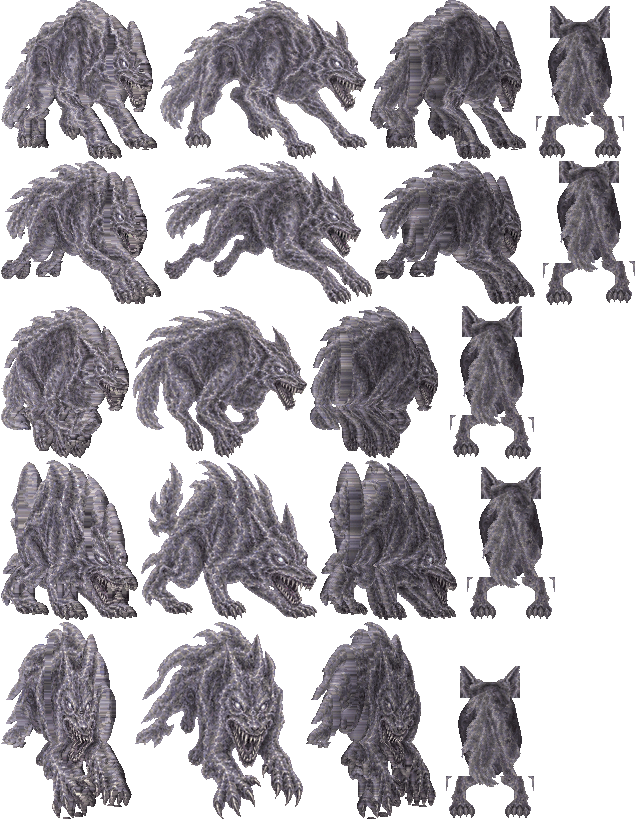
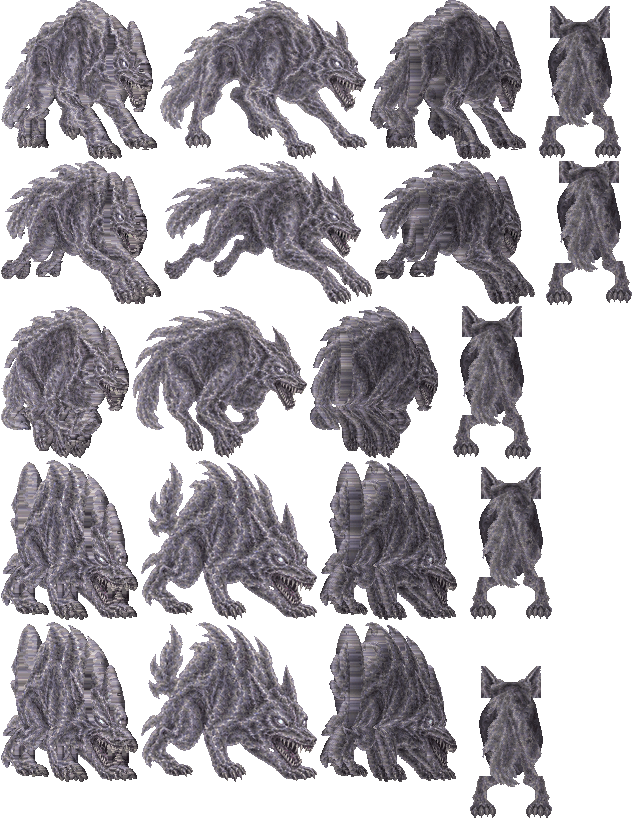
Phase 20 BEASTA: hound strike turned from its wind-up profile, hind-leg mask; precache
Claude-Session: https://claude.ai/code/session_01TYjZA4Eb84PA9Yndxy475V

Changed region(s): [[0.0, 0.7613, 0.8723, 1.0]]

diff --git a/js/bestiary20a.js b/js/bestiary20a.js
@@ -34,7 +34,7 @@ const BESTIARY20A = (() => {
   // Cell table written by the bake script: species -> { f: file, v: version,
   // c: { 'view|pose': [x, y, w, h, hs, cx, dy] or 'sprite name' (an existing painting) } }
   // @@ATLAS-BEGIN (generated by tools/art/bestiary/bake20a.js; do not edit by hand)
-  const ATLAS = {"aegis":{"f":"aegis.png","v":"438ad28f","c":{"1|":[0,0,65,160,1,0.49231,0],"2|":[66,0,43,160,1,0.48837,0],"3|":[110,0,67,160,1,0.49254,0],"4|":[178,0,87,160,1,0.49425,0],"1|_w1":[0,161,64,161,1.0063,0.5,0],"2|_w1":[65,161,43,161,1.0063,0.48837,0],"3|_w1":[109,161,64,161,1.0063,0.5,0],"4|_w1":[174,161,85,161,1.0063,0.49412,0],"1|_w2":[0,323,65,162,1.0125,0.50769,0],"2|_w2":[66,323,43,162,1.0125,0.48837,0],"3|_w2":[110,323,65,162,1.0125,0.49231,0],"4|_w2":[176,323,84,162,1.0125,0.4881,0],"1|_a1":[0,486,72,153,0.9563,0.5,0],"2|_a1":[73,486,44,153,0.9563,0.5,0],"3|_a1":[118,486,72,153,0.9563,0.5,0],"4|_a1":[191,486,93,153,0.9563,0.49462,0],"1|_a2":[0,640,57,153,0.9563,0.49123,0],"2|_a2":[58,640,56,153,0.9563,0.375,0],"3|_a2":[115,640,89,153,0.9563,0.32584,0],"4|_a2":[205,640,78,153,0.9563,0.44872,0]}},"briarsprite":{"f":"briarsprite.png","v":"b514438e","c":{"0|":[0,0,72,72,1,0.5,0],"1|":[73,0,72,72,1,0.5,0],"2|":[146,0,72,72,1,0.5,0],"3|":[219,0,72,72,1,0.5,0],"4|":[292,0,72,72,1,0.5,0],"0|_w1":[0,73,72,72,1,0.5,0],"1|_w1":[73,73,72,72,1,0.5,0],"2|_w1":[146,73,72,72,1,0.5,0],"3|_w1":[219,73,72,72,1,0.5,0],"4|_w1":[292,73,72,72,1,0.5,0],"0|_w2":[0,146,72,72,1,0.5,0],"1|_w2":[73,146,72,72,1,0.5,0],"2|_w2":[146,146,72,72,1,0.5,0],"3|_w2":[219,146,72,72,1,0.5,0],"4|_w2":[292,146,72,72,1,0.5,0],"0|_a1":[0,219,72,72,1,0.5,0],"1|_a1":[73,219,72,72,1,0.5,0],"2|_a1":[146,219,72,72,1,0.5,0],"3|_a1":[219,219,72,72,1,0.5,0],"4|_a1":[292,219,72,72,1,0.5,0],"0|_a2":[0,292,72,72,1,0.5,0],"1|_a2":[73,292,72,72,1,0.5,0],"2|_a2":[146,292,72,72,1,0.5,0],"3|_a2":[219,292,72,72,1,0.5,0],"4|_a2":[292,292,72,72,1,0.5,0]}},"broodmother":{"f":"broodmother.png","v":"08f64d7f","c":{"1|":[0,0,101,170,1,0.50495,0],"2|":[102,0,101,170,1,0.51485,0],"3|":[204,0,101,170,1,0.50495,0],"4|":[306,0,117,170,1,0.49573,0],"1|_w1":[0,171,98,166,0.9765,0.52041,0],"2|_w1":[99,171,98,166,0.9765,0.52041,0],"3|_w1":[198,171,98,166,0.9765,0.52041,0],"4|_w1":[297,171,113,166,0.9765,0.50442,0],"1|_w2":[0,338,98,167,0.9824,0.52041,0],"2|_w2":[99,338,98,167,0.9824,0.52041,0],"3|_w2":[198,338,98,167,0.9824,0.52041,0],"4|_w2":[297,338,113,167,0.9824,0.50442,0],"1|_a1":[0,506,96,175,1.0294,0.53125,0],"2|_a1":[97,506,97,175,1.0294,0.53608,0],"3|_a1":[195,506,96,175,1.0294,0.53125,0],"4|_a1":[292,506,112,175,1.0294,0.51786,0],"1|_a2":[0,682,103,154,0.9059,0.51456,0],"2|_a2":[104,682,103,154,0.9059,0.52427,0],"3|_a2":[208,682,103,154,0.9059,0.51456,0],"4|_a2":[312,682,119,154,0.9059,0.5042,0]}},"captain":{"f":"captain.png","v":"1a0d1cb0","c":{"1|":[0,0,75,165,1,0.42667,0],"2|":[76,0,55,165,1,0.38182,0],"3|":[132,0,66,165,1,0.42424,0],"4|":[199,0,84,165,1,0.47619,0],"1|_w1":[0,166,76,163,0.9879,0.43421,0],"2|_w1":[77,166,54,163,0.9879,0.48148,0],"3|_w1":[132,166,67,163,0.9879,0.44776,0],"4|_w1":[200,166,92,163,0.9879,0.53261,0],"1|_w2":[0,330,73,163,0.9879,0.41096,0],"2|_w2":[74,330,48,163,0.9879,0.41667,0],"3|_w2":[123,330,68,163,0.9879,0.45588,0],"4|_w2":[192,330,92,163,0.9879,0.54348,0],"1|_a1":[0,494,78,177,1.0727,0.46154,0],"2|_a1":[79,494,51,177,1.0727,0.41176,0],"3|_a1":[131,494,91,177,1.0727,0.38462,0],"4|_a1":[223,494,124,177,1.0727,0.37097,0],"1|_a2":[0,672,81,149,0.903,0.41975,0],"2|_a2":[82,672,67,149,0.903,0.29851,0],"3|_a2":[150,672,81,149,0.903,0.37037,0],"4|_a2":[232,672,103,149,0.903,0.45631,0]}},"deacon":{"f":"deacon.png","v":"54be0af4","c":{"1|":[0,0,47,170,1,0.48936,0],"2|":[48,0,36,170,1,0.5,0],"3|":[85,0,49,170,1,0.4898,0],"4|":[135,0,61,170,1,0.5082,0],"1|_w1":[0,171,50,170,1,0.48,0],"2|_w1":[51,171,38,170,1,0.55263,0],"3|_w1":[90,171,50,170,1,0.52,0],"4|_w1":[141,171,62,170,1,0.53226,0],"1|_w2":[0,342,52,170,1,0.48077,0],"2|_w2":[53,342,38,170,1,0.44737,0],"3|_w2":[92,342,50,170,1,0.54,0],"4|_w2":[143,342,65,170,1,0.55385,0],"1|_a1":[0,513,48,187,1.1,0.5,0],"2|_a1":[49,513,36,187,1.1,0.5,0],"3|_a1":[86,513,48,187,1.1,0.5,0],"4|_a1":[135,513,61,187,1.1,0.5082,0],"1|_a2":[0,701,48,153,0.9,0.52083,0],"2|_a2":[49,701,45,153,0.9,0.42222,0],"3|_a2":[95,701,48,153,0.9,0.47917,0],"4|_a2":[144,701,61,153,0.9,0.4918,0]}},"dirge":{"f":"dirge.png","v":"999bcbb9","c":{"1|":[0,0,51,150,1,0.4902,0],"2|":[52,0,31,150,1,0.48387,0],"3|":[84,0,51,150,1,0.5098,0],"4|":[136,0,68,150,1,0.5,0],"1|_w1":[0,151,59,146,0.9733,0.52542,-0.0267],"2|_w1":[60,151,33,146,0.9733,0.51515,-0.0267],"3|_w1":[94,151,59,146,0.9733,0.47458,-0.0267],"4|_w1":[154,151,79,146,0.9733,0.4557,-0.0267],"1|_w2":[0,298,60,149,0.9933,0.4,-0.0067],"2|_w2":[61,298,32,149,0.9933,0.46875,-0.0067],"3|_w2":[94,298,60,149,0.9933,0.6,-0.0067],"4|_w2":[155,298,80,149,0.9933,0.625,-0.0067],"1|_a1":[0,448,65,153,1.02,0.41538,0.02],"2|_a1":[66,448,34,153,1.02,0.47059,0.02],"3|_a1":[101,448,65,153,1.02,0.58462,0.02],"4|_a1":[167,448,88,153,1.02,0.59091,0.02],"1|_a2":[0,602,61,145,0.9667,0.52459,-0.0333],"2|_a2":[62,602,33,145,0.9667,0.51515,-0.0333],"3|_a2":[96,602,61,145,0.9667,0.47541,-0.0333],"4|_a2":[158,602,83,145,0.9667,0.48193,-0.0333]}},"drowned":{"f":"drowned.png","v":"fef2ef19","c":{"1|":[0,0,78,160,1,0.30769,0],"2|":[79,0,57,160,1,0.26316,0],"3|":[137,0,83,160,1,0.3494,0],"4|":[221,0,100,160,1,0.55,0],"1|_w1":[0,161,54,150,0.9375,0.51852,0],"2|_w1":[55,161,30,150,0.9375,0.5,0],"3|_w1":[86,161,54,150,0.9375,0.48148,0],"4|_w1":[141,161,74,150,0.9375,0.48649,0],"1|_w2":[0,312,54,148,0.925,0.53704,0],"2|_w2":[55,312,30,148,0.925,0.5,0],"3|_w2":[86,312,54,148,0.925,0.46296,0],"4|_w2":[141,312,72,148,0.925,0.45833,0],"1|_a1":[0,461,69,169,1.0562,0.43478,0],"2|_a1":[70,461,52,169,1.0562,0.40385,0],"3|_a1":[123,461,71,169,1.0562,0.4507,0],"4|_a1":[195,461,83,169,1.0562,0.51807,0],"1|_a2":[0,631,83,144,0.9,0.36145,0],"2|_a2":[84,631,59,144,0.9,0.25424,0],"3|_a2":[144,631,79,144,0.9,0.36709,0],"4|_a2":[224,631,92,144,0.9,0.55435,0]}},"fretcrawler":{"f":"fretcrawler.png","v":"dbf93f13","c":{"0|":[0,0,144,72,1,0.5,0],"1|":[145,0,144,72,1,0.5,0],"2|":[290,0,144,72,1,0.5,0],"3|":[435,0,144,72,1,0.5,0],"4|":[580,0,144,72,1,0.5,0],"0|_w1":[0,73,144,72,1,0.5,0],"1|_w1":[145,73,144,72,1,0.5,0],"2|_w1":[290,73,144,72,1,0.5,0],"3|_w1":[435,73,144,72,1,0.5,0],"4|_w1":[580,73,144,72,1,0.5,0],"0|_w2":[0,146,144,72,1,0.5,0],"1|_w2":[145,146,144,72,1,0.5,0],"2|_w2":[290,146,144,72,1,0.5,0],"3|_w2":[435,146,144,72,1,0.5,0],"4|_w2":[580,146,144,72,1,0.5,0],"0|_a1":[0,219,144,72,1,0.5,0],"1|_a1":[145,219,144,72,1,0.5,0],"2|_a1":[290,219,144,72,1,0.5,0],"3|_a1":[435,219,144,72,1,0.5,0],"4|_a1":[580,219,144,72,1,0.5,0],"0|_a2":[0,292,144,72,1,0.5,0],"1|_a2":[145,292,144,72,1,0.5,0],"2|_a2":[290,292,144,72,1,0.5,0],"3|_a2":[435,292,144,72,1,0.5,0],"4|_a2":[580,292,144,72,1,0.5,0]}},"golem":{"f":"golem.png","v":"4f0f733b","c":{"1|":[0,0,68,160,1,0.5,0],"2|":[69,0,40,160,1,0.5,0],"3|":[110,0,68,160,1,0.5,0],"4|":[179,0,87,160,1,0.50575,0],"1|_w1":[0,161,70,162,1.0125,0.5,0],"2|_w1":[71,161,40,162,1.0125,0.5,0],"3|_w1":[112,161,70,162,1.0125,0.5,0],"4|_w1":[183,161,89,162,1.0125,0.50562,0],"1|_w2":[0,324,69,163,1.0188,0.50725,0],"2|_w2":[70,324,43,163,1.0188,0.48837,0],"3|_w2":[114,324,69,163,1.0188,0.49275,0],"4|_w2":[184,324,88,163,1.0188,0.5,0],"1|_a1":[0,488,69,174,1.0875,0.56522,0],"2|_a1":[70,488,48,174,1.0875,0.58333,0],"3|_a1":[119,488,67,174,1.0875,0.44776,0],"4|_a1":[187,488,86,174,1.0875,0.44186,0],"1|_a2":[0,663,78,144,0.9,0.58974,0],"2|_a2":[79,663,75,144,0.9,0.46667,0],"3|_a2":[155,663,94,144,0.9,0.34043,0],"4|_a2":[250,663,97,144,0.9,0.42268,0]}},"horn":{"f":"horn.png","v":"3d97f8cd","c":{"1|":[0,0,51,120,1,0.43137,0],"2|":[52,0,44,120,1,0.5,0],"3|":[97,0,63,120,1,0.46032,0],"4|":[161,0,69,120,1,0.57971,0],"1|_w1":[0,121,59,118,0.9833,0.55932,0],"2|_w1":[60,121,44,118,0.9833,0.5,0],"3|_w1":[105,121,60,118,0.9833,0.43333,0],"4|_w1":[166,121,69,118,0.9833,0.50725,0],"1|_w2":[0,240,48,118,0.9833,0.45833,0],"2|_w2":[49,240,44,118,0.9833,0.5,0],"3|_w2":[94,240,48,118,0.9833,0.54167,0],"4|_w2":[143,240,63,118,0.9833,0.55556,0],"1|_a1":[0,359,58,120,1,0.41379,0],"2|_a1":[59,359,52,120,1,0.34615,0],"3|_a1":[112,359,50,120,1,0.56,0],"4|_a1":[163,359,66,120,1,0.56061,0],"1|_a2":[0,480,58,119,0.9917,0.41379,0],"2|_a2":[59,480,52,119,0.9917,0.34615,0],"3|_a2":[112,480,47,119,0.9917,0.53191,0],"4|_a2":[160,480,62,119,0.9917,0.53226,0]}},"hound":{"f":"hound.png","v":"5f6a7692","c":{"1|":[0,0,158,160,1,0.5443,0],"2|":[159,0,209,160,1,0.54067,0],"3|":[369,0,158,160,1,0.5443,0],"4|":[528,0,104,160,1,0.5,0],"1|_w1":[0,161,162,144,0.9,0.53704,0],"2|_w1":[163,161,210,144,0.9,0.5381,0],"3|_w1":[374,161,162,144,0.9,0.53704,0],"4|_w1":[537,161,104,144,0.9,0.5,0],"1|_w2":[0,306,130,153,0.9563,0.55385,0],"2|_w2":[131,306,177,153,0.9563,0.54237,0],"3|_w2":[309,306,130,153,0.9563,0.55385,0],"4|_w2":[440,306,104,153,0.9563,0.49997,0],"1|_a1":[0,460,139,161,1.0063,0.56115,0],"2|_a1":[140,460,178,161,1.0063,0.5618,0],"3|_a1":[319,460,139,161,1.0063,0.56115,0],"4|_a1":[459,460,104,161,1.0063,0.49998,0],"1|_a2":[0,622,133,198,1.2375,0.54135,0],"2|_a2":[134,622,170,198,1.2375,0.56471,0],"3|_a2":[305,622,132,198,1.2375,0.54545,0],"4|_a2":[438,622,104,198,1.2375,0.5,0],"0|":"hound_a2","0|_w1":"hound_a2","0|_w2":"hound_a2","0|_a1":"hound_a2","0|_a2":"hound_a2"}},"hushwarden":{"f":"hushwarden.png","v":"5ed622dd","c":{"1|":[0,0,64,165,1,0.42188,0],"2|":[65,0,46,165,1,0.43478,0],"3|":[112,0,54,165,1,0.5,0],"4|":[167,0,72,165,1,0.52778,0],"1|_w1":[0,166,61,166,1.0061,0.42623,0],"2|_w1":[62,166,50,166,1.0061,0.48,0],"3|_w1":[113,166,56,166,1.0061,0.53571,0],"4|_w1":[170,166,73,166,1.0061,0.53425,0],"1|_w2":[0,333,60,166,1.0061,0.43333,0],"2|_w2":[61,333,44,166,1.0061,0.43182,0],"3|_w2":[106,333,54,166,1.0061,0.51852,0],"4|_w2":[161,333,71,166,1.0061,0.52113,0],"1|_a1":[0,500,63,200,1.2121,0.49206,0],"2|_a1":[64,500,41,200,1.2121,0.4878,0],"3|_a1":[106,500,63,200,1.2121,0.50794,0],"4|_a1":[170,500,81,200,1.2121,0.50617,0],"1|_a2":[0,701,64,148,0.897,0.48438,0],"2|_a2":[65,701,55,148,0.897,0.38182,0],"3|_a2":[121,701,64,148,0.897,0.51563,0],"4|_a2":[186,701,87,148,0.897,0.51724,0]}}};
+  const ATLAS = {"aegis":{"f":"aegis.png","v":"438ad28f","c":{"1|":[0,0,65,160,1,0.49231,0],"2|":[66,0,43,160,1,0.48837,0],"3|":[110,0,67,160,1,0.49254,0],"4|":[178,0,87,160,1,0.49425,0],"1|_w1":[0,161,64,161,1.0063,0.5,0],"2|_w1":[65,161,43,161,1.0063,0.48837,0],"3|_w1":[109,161,64,161,1.0063,0.5,0],"4|_w1":[174,161,85,161,1.0063,0.49412,0],"1|_w2":[0,323,65,162,1.0125,0.50769,0],"2|_w2":[66,323,43,162,1.0125,0.48837,0],"3|_w2":[110,323,65,162,1.0125,0.49231,0],"4|_w2":[176,323,84,162,1.0125,0.4881,0],"1|_a1":[0,486,72,153,0.9563,0.5,0],"2|_a1":[73,486,44,153,0.9563,0.5,0],"3|_a1":[118,486,72,153,0.9563,0.5,0],"4|_a1":[191,486,93,153,0.9563,0.49462,0],"1|_a2":[0,640,57,153,0.9563,0.49123,0],"2|_a2":[58,640,56,153,0.9563,0.375,0],"3|_a2":[115,640,89,153,0.9563,0.32584,0],"4|_a2":[205,640,78,153,0.9563,0.44872,0]}},"briarsprite":{"f":"briarsprite.png","v":"b514438e","c":{"0|":[0,0,72,72,1,0.5,0],"1|":[73,0,72,72,1,0.5,0],"2|":[146,0,72,72,1,0.5,0],"3|":[219,0,72,72,1,0.5,0],"4|":[292,0,72,72,1,0.5,0],"0|_w1":[0,73,72,72,1,0.5,0],"1|_w1":[73,73,72,72,1,0.5,0],"2|_w1":[146,73,72,72,1,0.5,0],"3|_w1":[219,73,72,72,1,0.5,0],"4|_w1":[292,73,72,72,1,0.5,0],"0|_w2":[0,146,72,72,1,0.5,0],"1|_w2":[73,146,72,72,1,0.5,0],"2|_w2":[146,146,72,72,1,0.5,0],"3|_w2":[219,146,72,72,1,0.5,0],"4|_w2":[292,146,72,72,1,0.5,0],"0|_a1":[0,219,72,72,1,0.5,0],"1|_a1":[73,219,72,72,1,0.5,0],"2|_a1":[146,219,72,72,1,0.5,0],"3|_a1":[219,219,72,72,1,0.5,0],"4|_a1":[292,219,72,72,1,0.5,0],"0|_a2":[0,292,72,72,1,0.5,0],"1|_a2":[73,292,72,72,1,0.5,0],"2|_a2":[146,292,72,72,1,0.5,0],"3|_a2":[219,292,72,72,1,0.5,0],"4|_a2":[292,292,72,72,1,0.5,0]}},"broodmother":{"f":"broodmother.png","v":"08f64d7f","c":{"1|":[0,0,101,170,1,0.50495,0],"2|":[102,0,101,170,1,0.51485,0],"3|":[204,0,101,170,1,0.50495,0],"4|":[306,0,117,170,1,0.49573,0],"1|_w1":[0,171,98,166,0.9765,0.52041,0],"2|_w1":[99,171,98,166,0.9765,0.52041,0],"3|_w1":[198,171,98,166,0.9765,0.52041,0],"4|_w1":[297,171,113,166,0.9765,0.50442,0],"1|_w2":[0,338,98,167,0.9824,0.52041,0],"2|_w2":[99,338,98,167,0.9824,0.52041,0],"3|_w2":[198,338,98,167,0.9824,0.52041,0],"4|_w2":[297,338,113,167,0.9824,0.50442,0],"1|_a1":[0,506,96,175,1.0294,0.53125,0],"2|_a1":[97,506,97,175,1.0294,0.53608,0],"3|_a1":[195,506,96,175,1.0294,0.53125,0],"4|_a1":[292,506,112,175,1.0294,0.51786,0],"1|_a2":[0,682,103,154,0.9059,0.51456,0],"2|_a2":[104,682,103,154,0.9059,0.52427,0],"3|_a2":[208,682,103,154,0.9059,0.51456,0],"4|_a2":[312,682,119,154,0.9059,0.5042,0]}},"captain":{"f":"captain.png","v":"1a0d1cb0","c":{"1|":[0,0,75,165,1,0.42667,0],"2|":[76,0,55,165,1,0.38182,0],"3|":[132,0,66,165,1,0.42424,0],"4|":[199,0,84,165,1,0.47619,0],"1|_w1":[0,166,76,163,0.9879,0.43421,0],"2|_w1":[77,166,54,163,0.9879,0.48148,0],"3|_w1":[132,166,67,163,0.9879,0.44776,0],"4|_w1":[200,166,92,163,0.9879,0.53261,0],"1|_w2":[0,330,73,163,0.9879,0.41096,0],"2|_w2":[74,330,48,163,0.9879,0.41667,0],"3|_w2":[123,330,68,163,0.9879,0.45588,0],"4|_w2":[192,330,92,163,0.9879,0.54348,0],"1|_a1":[0,494,78,177,1.0727,0.46154,0],"2|_a1":[79,494,51,177,1.0727,0.41176,0],"3|_a1":[131,494,91,177,1.0727,0.38462,0],"4|_a1":[223,494,124,177,1.0727,0.37097,0],"1|_a2":[0,672,81,149,0.903,0.41975,0],"2|_a2":[82,672,67,149,0.903,0.29851,0],"3|_a2":[150,672,81,149,0.903,0.37037,0],"4|_a2":[232,672,103,149,0.903,0.45631,0]}},"deacon":{"f":"deacon.png","v":"54be0af4","c":{"1|":[0,0,47,170,1,0.48936,0],"2|":[48,0,36,170,1,0.5,0],"3|":[85,0,49,170,1,0.4898,0],"4|":[135,0,61,170,1,0.5082,0],"1|_w1":[0,171,50,170,1,0.48,0],"2|_w1":[51,171,38,170,1,0.55263,0],"3|_w1":[90,171,50,170,1,0.52,0],"4|_w1":[141,171,62,170,1,0.53226,0],"1|_w2":[0,342,52,170,1,0.48077,0],"2|_w2":[53,342,38,170,1,0.44737,0],"3|_w2":[92,342,50,170,1,0.54,0],"4|_w2":[143,342,65,170,1,0.55385,0],"1|_a1":[0,513,48,187,1.1,0.5,0],"2|_a1":[49,513,36,187,1.1,0.5,0],"3|_a1":[86,513,48,187,1.1,0.5,0],"4|_a1":[135,513,61,187,1.1,0.5082,0],"1|_a2":[0,701,48,153,0.9,0.52083,0],"2|_a2":[49,701,45,153,0.9,0.42222,0],"3|_a2":[95,701,48,153,0.9,0.47917,0],"4|_a2":[144,701,61,153,0.9,0.4918,0]}},"dirge":{"f":"dirge.png","v":"999bcbb9","c":{"1|":[0,0,51,150,1,0.4902,0],"2|":[52,0,31,150,1,0.48387,0],"3|":[84,0,51,150,1,0.5098,0],"4|":[136,0,68,150,1,0.5,0],"1|_w1":[0,151,59,146,0.9733,0.52542,-0.0267],"2|_w1":[60,151,33,146,0.9733,0.51515,-0.0267],"3|_w1":[94,151,59,146,0.9733,0.47458,-0.0267],"4|_w1":[154,151,79,146,0.9733,0.4557,-0.0267],"1|_w2":[0,298,60,149,0.9933,0.4,-0.0067],"2|_w2":[61,298,32,149,0.9933,0.46875,-0.0067],"3|_w2":[94,298,60,149,0.9933,0.6,-0.0067],"4|_w2":[155,298,80,149,0.9933,0.625,-0.0067],"1|_a1":[0,448,65,153,1.02,0.41538,0.02],"2|_a1":[66,448,34,153,1.02,0.47059,0.02],"3|_a1":[101,448,65,153,1.02,0.58462,0.02],"4|_a1":[167,448,88,153,1.02,0.59091,0.02],"1|_a2":[0,602,61,145,0.9667,0.52459,-0.0333],"2|_a2":[62,602,33,145,0.9667,0.51515,-0.0333],"3|_a2":[96,602,61,145,0.9667,0.47541,-0.0333],"4|_a2":[158,602,83,145,0.9667,0.48193,-0.0333]}},"drowned":{"f":"drowned.png","v":"fef2ef19","c":{"1|":[0,0,78,160,1,0.30769,0],"2|":[79,0,57,160,1,0.26316,0],"3|":[137,0,83,160,1,0.3494,0],"4|":[221,0,100,160,1,0.55,0],"1|_w1":[0,161,54,150,0.9375,0.51852,0],"2|_w1":[55,161,30,150,0.9375,0.5,0],"3|_w1":[86,161,54,150,0.9375,0.48148,0],"4|_w1":[141,161,74,150,0.9375,0.48649,0],"1|_w2":[0,312,54,148,0.925,0.53704,0],"2|_w2":[55,312,30,148,0.925,0.5,0],"3|_w2":[86,312,54,148,0.925,0.46296,0],"4|_w2":[141,312,72,148,0.925,0.45833,0],"1|_a1":[0,461,69,169,1.0562,0.43478,0],"2|_a1":[70,461,52,169,1.0562,0.40385,0],"3|_a1":[123,461,71,169,1.0562,0.4507,0],"4|_a1":[195,461,83,169,1.0562,0.51807,0],"1|_a2":[0,631,83,144,0.9,0.36145,0],"2|_a2":[84,631,59,144,0.9,0.25424,0],"3|_a2":[144,631,79,144,0.9,0.36709,0],"4|_a2":[224,631,92,144,0.9,0.55435,0]}},"fretcrawler":{"f":"fretcrawler.png","v":"dbf93f13","c":{"0|":[0,0,144,72,1,0.5,0],"1|":[145,0,144,72,1,0.5,0],"2|":[290,0,144,72,1,0.5,0],"3|":[435,0,144,72,1,0.5,0],"4|":[580,0,144,72,1,0.5,0],"0|_w1":[0,73,144,72,1,0.5,0],"1|_w1":[145,73,144,72,1,0.5,0],"2|_w1":[290,73,144,72,1,0.5,0],"3|_w1":[435,73,144,72,1,0.5,0],"4|_w1":[580,73,144,72,1,0.5,0],"0|_w2":[0,146,144,72,1,0.5,0],"1|_w2":[145,146,144,72,1,0.5,0],"2|_w2":[290,146,144,72,1,0.5,0],"3|_w2":[435,146,144,72,1,0.5,0],"4|_w2":[580,146,144,72,1,0.5,0],"0|_a1":[0,219,144,72,1,0.5,0],"1|_a1":[145,219,144,72,1,0.5,0],"2|_a1":[290,219,144,72,1,0.5,0],"3|_a1":[435,219,144,72,1,0.5,0],"4|_a1":[580,219,144,72,1,0.5,0],"0|_a2":[0,292,144,72,1,0.5,0],"1|_a2":[145,292,144,72,1,0.5,0],"2|_a2":[290,292,144,72,1,0.5,0],"3|_a2":[435,292,144,72,1,0.5,0],"4|_a2":[580,292,144,72,1,0.5,0]}},"golem":{"f":"golem.png","v":"4f0f733b","c":{"1|":[0,0,68,160,1,0.5,0],"2|":[69,0,40,160,1,0.5,0],"3|":[110,0,68,160,1,0.5,0],"4|":[179,0,87,160,1,0.50575,0],"1|_w1":[0,161,70,162,1.0125,0.5,0],"2|_w1":[71,161,40,162,1.0125,0.5,0],"3|_w1":[112,161,70,162,1.0125,0.5,0],"4|_w1":[183,161,89,162,1.0125,0.50562,0],"1|_w2":[0,324,69,163,1.0188,0.50725,0],"2|_w2":[70,324,43,163,1.0188,0.48837,0],"3|_w2":[114,324,69,163,1.0188,0.49275,0],"4|_w2":[184,324,88,163,1.0188,0.5,0],"1|_a1":[0,488,69,174,1.0875,0.56522,0],"2|_a1":[70,488,48,174,1.0875,0.58333,0],"3|_a1":[119,488,67,174,1.0875,0.44776,0],"4|_a1":[187,488,86,174,1.0875,0.44186,0],"1|_a2":[0,663,78,144,0.9,0.58974,0],"2|_a2":[79,663,75,144,0.9,0.46667,0],"3|_a2":[155,663,94,144,0.9,0.34043,0],"4|_a2":[250,663,97,144,0.9,0.42268,0]}},"horn":{"f":"horn.png","v":"3d97f8cd","c":{"1|":[0,0,51,120,1,0.43137,0],"2|":[52,0,44,120,1,0.5,0],"3|":[97,0,63,120,1,0.46032,0],"4|":[161,0,69,120,1,0.57971,0],"1|_w1":[0,121,59,118,0.9833,0.55932,0],"2|_w1":[60,121,44,118,0.9833,0.5,0],"3|_w1":[105,121,60,118,0.9833,0.43333,0],"4|_w1":[166,121,69,118,0.9833,0.50725,0],"1|_w2":[0,240,48,118,0.9833,0.45833,0],"2|_w2":[49,240,44,118,0.9833,0.5,0],"3|_w2":[94,240,48,118,0.9833,0.54167,0],"4|_w2":[143,240,63,118,0.9833,0.55556,0],"1|_a1":[0,359,58,120,1,0.41379,0],"2|_a1":[59,359,52,120,1,0.34615,0],"3|_a1":[112,359,50,120,1,0.56,0],"4|_a1":[163,359,66,120,1,0.56061,0],"1|_a2":[0,480,58,119,0.9917,0.41379,0],"2|_a2":[59,480,52,119,0.9917,0.34615,0],"3|_a2":[112,480,47,119,0.9917,0.53191,0],"4|_a2":[160,480,62,119,0.9917,0.53226,0]}},"hound":{"f":"hound.png","v":"c58b116d","c":{"1|":[0,0,158,160,1,0.5443,0],"2|":[159,0,209,160,1,0.54067,0],"3|":[369,0,158,160,1,0.5443,0],"4|":[528,0,104,160,1,0.5,0],"1|_w1":[0,161,162,144,0.9,0.53704,0],"2|_w1":[163,161,210,144,0.9,0.5381,0],"3|_w1":[374,161,162,144,0.9,0.53704,0],"4|_w1":[537,161,104,144,0.9,0.5,0],"1|_w2":[0,306,130,153,0.9563,0.55385,0],"2|_w2":[131,306,177,153,0.9563,0.54237,0],"3|_w2":[309,306,130,153,0.9563,0.55385,0],"4|_w2":[440,306,104,153,0.9563,0.49997,0],"1|_a1":[0,460,139,161,1.0063,0.56115,0],"2|_a1":[140,460,178,161,1.0063,0.5618,0],"3|_a1":[319,460,139,161,1.0063,0.56115,0],"4|_a1":[459,460,104,161,1.0063,0.49998,0],"1|_a2":[0,622,139,161,1.0063,0.56115,0],"2|_a2":[140,622,178,161,1.0063,0.5618,0],"3|_a2":[319,622,139,161,1.0063,0.56115,0],"4|_a2":[459,622,104,198,1.2375,0.5,0],"0|":"hound_a2","0|_w1":"hound_a2","0|_w2":"hound_a2","0|_a1":"hound_a2","0|_a2":"hound_a2"}},"hushwarden":{"f":"hushwarden.png","v":"5ed622dd","c":{"1|":[0,0,64,165,1,0.42188,0],"2|":[65,0,46,165,1,0.43478,0],"3|":[112,0,54,165,1,0.5,0],"4|":[167,0,72,165,1,0.52778,0],"1|_w1":[0,166,61,166,1.0061,0.42623,0],"2|_w1":[62,166,50,166,1.0061,0.48,0],"3|_w1":[113,166,56,166,1.0061,0.53571,0],"4|_w1":[170,166,73,166,1.0061,0.53425,0],"1|_w2":[0,333,60,166,1.0061,0.43333,0],"2|_w2":[61,333,44,166,1.0061,0.43182,0],"3|_w2":[106,333,54,166,1.0061,0.51852,0],"4|_w2":[161,333,71,166,1.0061,0.52113,0],"1|_a1":[0,500,63,200,1.2121,0.49206,0],"2|_a1":[64,500,41,200,1.2121,0.4878,0],"3|_a1":[106,500,63,200,1.2121,0.50794,0],"4|_a1":[170,500,81,200,1.2121,0.50617,0],"1|_a2":[0,701,64,148,0.897,0.48438,0],"2|_a2":[65,701,55,148,0.897,0.38182,0],"3|_a2":[121,701,64,148,0.897,0.51563,0],"4|_a2":[186,701,87,148,0.897,0.51724,0]}}};
   // @@ATLAS-END
   const atl = {};                              // species -> { data, w, h, state }
   const cache = new Map();                     // 'name|view|pose' -> { sprite, used, bytes }

diff --git a/tools/art/bestiary/recipes20a.js b/tools/art/bestiary/recipes20a.js
@@ -1217,7 +1217,7 @@ BEAST20A.SPECIES.hound = (() => {
       P.grain([[A - 18, 28], [A + 18, 28], [A + 22, 46], [A - 22, 46]], B.tones(N, [[120, 40], [130, 60], [100, 50], [140, 45]]), 2, 31);
       const rump = []; for (let i = 0; i < 28; i++) { const a = i / 28 * Math.PI * 2; rump.push([A + Math.cos(a) * 31 + (Math.sin(a * 5) * 2), 72 + Math.sin(a) * 44]); }
       P.layer(Q => Q.tex(N, 62, 36, 40, 48, rump), 0.62, 1.12, 0.7, 0.42);
-      const leg = B.piece(N, 22, 106, 40, 42);
+      const leg = B.piece(N, 22, 106, 40, 42, [[31, 106], [53, 106], [60, 148], [24, 148], [26, 126]]);
       P.g.drawImage(leg, A - 44 - st * 2, 116 + Math.max(0, st) * 2);
       P.g.save(); P.g.translate(A + 44 + st * 2, 116 + Math.max(0, -st) * 2); P.g.scale(-1, 1); P.g.drawImage(leg, 0, 0); P.g.restore();
       // the ridge of bristles along the spine, seen end-on
@@ -1228,8 +1228,9 @@ BEAST20A.SPECIES.hound = (() => {
   const recipe = (v, p) => {
     if (v === 0) return Engine.sprites[N + '_a2'];          // head-on it is the painting of the lunge
     if (v === 4) return rear(p);
-    const r = rig(p);
-    return B.lathed(N + p, r, v, (P, ox, psi) => {
+    // the strike is painted head-on; turned away from you it is the crouching snap of the wind-up
+    const q = p === '_a2' ? '_a1' : p, r = rig(q);
+    return B.lathed(N + q, r, v, (P, ox, psi) => {
       // head-on and three-quarter: the pale eyes and the white of the teeth
       if (psi > 0.3) {
         const e = B.at(N, 182, 70, 1.25), tooth = B.at(N, 190, 95, 1.2), dk = B.at(N, 190, 90, 0.4);

diff --git a/test/bestiary20a.test.js b/test/bestiary20a.test.js
@@ -51,7 +51,8 @@ const SIDE_ON = ['briarsprite', 'fretcrawler', 'hound'];
       for (const name of MINE) {
         const views = new Set();
         for (const p of poses) {
-          const srcF = Engine.sprites[name + p]; check(srcF, name + p + ' source frame');
+          // (the hound's strike is painted head-on; its other angles are drawn from the wind-up's profile frame)
+          const srcF = Engine.sprites[name + (name === 'hound' && p === '_a2' ? '_a1' : p)]; check(srcF, name + p + ' source frame');
           for (let v = 1; v <= 4; v++) {
             const s = DIRECTIONS.view(name, v, p);
             check(s && s.data instanceof Uint32Array && s.data.length === s.w * s.h && s.data.some(q => q >>> 24), name + p + ' view ' + v + ' drawn');

diff --git a/sw.js b/sw.js
@@ -18,7 +18,7 @@
 //
 // <precache:begin>
 // Generated by tools/pwa/precache.js from index.html and the asset folders. Do not edit by hand; run the tool.
-const BUILD = "8b3450583678";
+const BUILD = "33948fdd6caf";
 const MEDIA_BUILD = "88e51a8a41e3";
 const MEDIA_BYTES = 54495791;
 const CORE = [
